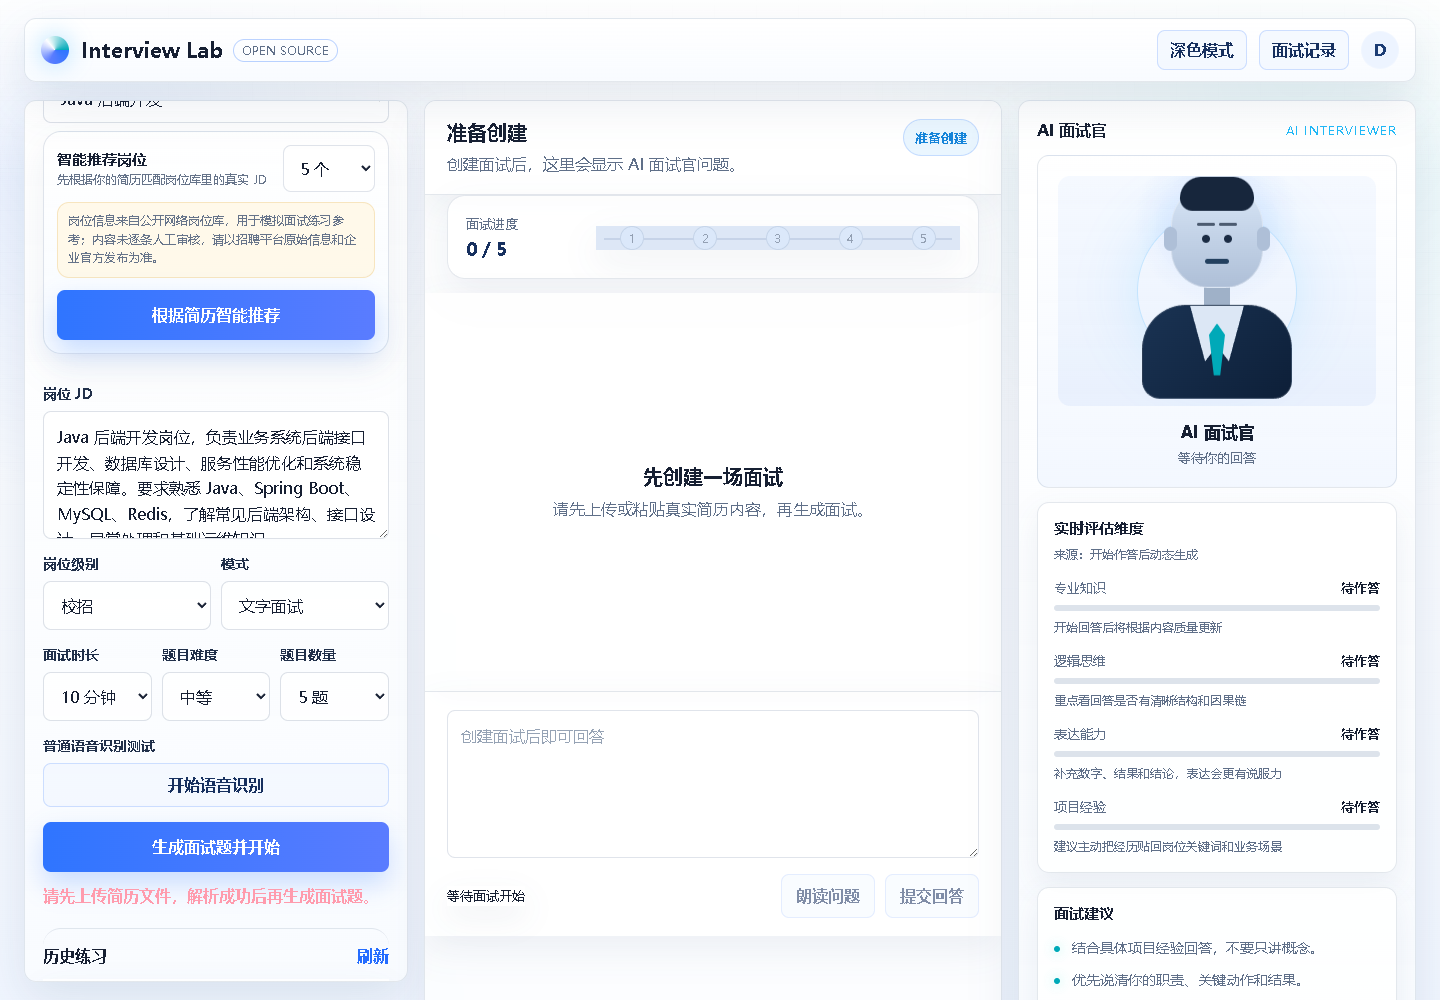
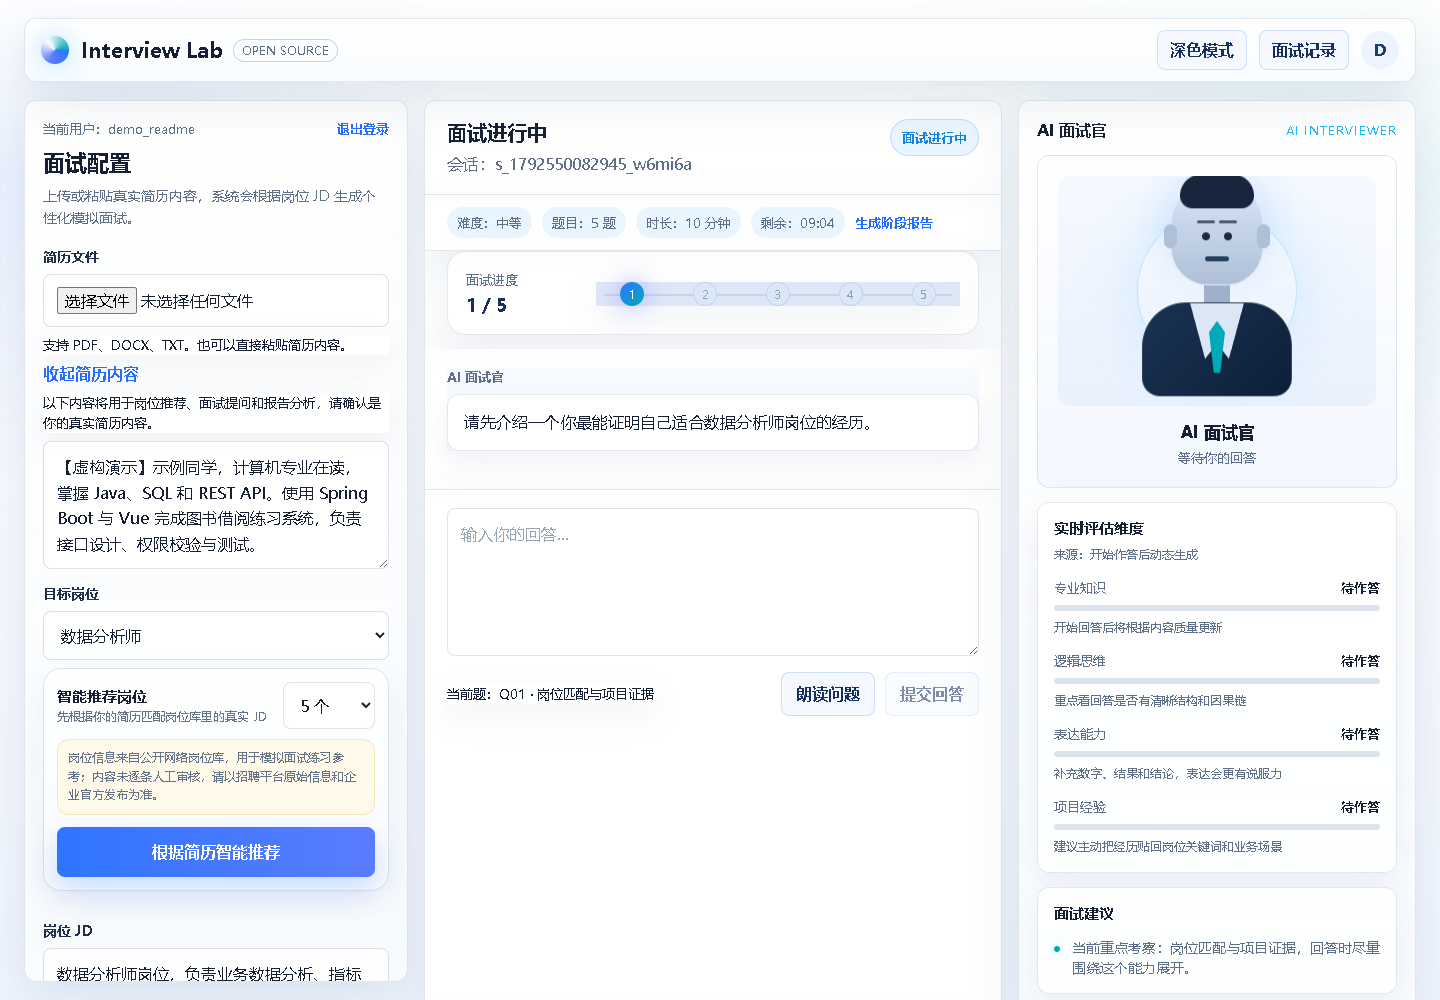
Allow pasted resumes and refresh the working interview preview

diff --git a/app/page.tsx b/app/page.tsx
@@ -521,14 +521,9 @@ export default function Home() {
       setError("请先登录后再开始面试。");
       return;
     }
-    if (!resumeFileName) {
-      setShowParsedResume(true);
-      setError("请先上传简历文件，解析成功后再生成面试题。");
-      return;
-    }
     if (resumeText.trim().length < 20) {
       setShowParsedResume(true);
-      setError("简历解析内容太少，请重新上传有效简历文件。");
+      setError("请上传简历或粘贴至少 20 个字的简历内容。");
       return;
     }
     if (jdText.trim().length < 20) {

diff --git a/docs/VALIDATION.md b/docs/VALIDATION.md
@@ -10,3 +10,5 @@
 - 未验证真实 Dify/Coze/语音服务，不包含招聘数据库与登录状态。
 
 测试使用临时目录或本地虚构数据。运行数据、凭据、日志和测试截图快照不作为业务样本提交；README 预览图为本轮单独制作。
+
+浏览器补充回归：可直接粘贴虚构简历并创建面试，已移除与文件名绑定的多余限制。
